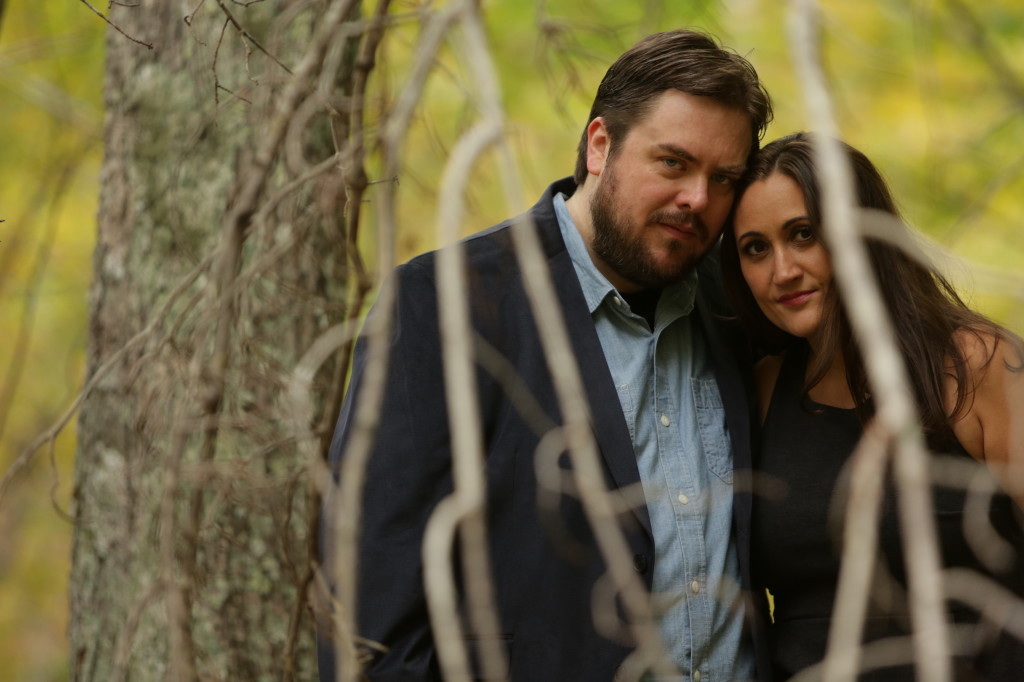
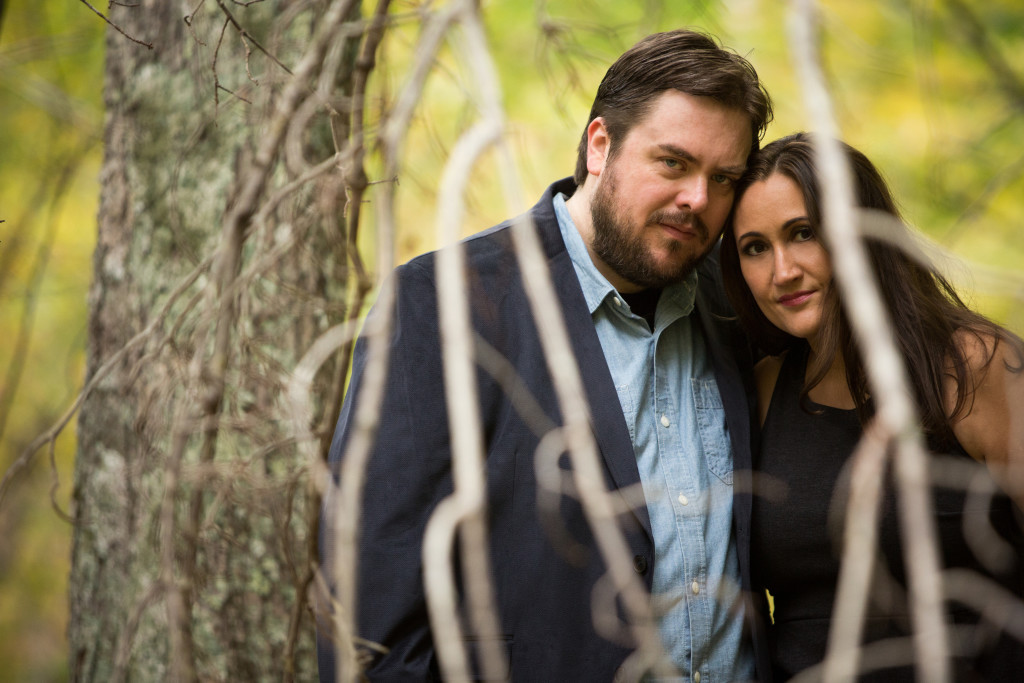
Retouched

diff --git a/wp-content/themes/scottyandallie/js/scott.js b/wp-content/themes/scottyandallie/js/scott.js
@@ -13,7 +13,7 @@
 				current += 1;
 			}
 
-			img.animate({opacity: 0.3}, 300, function () {
+			img.animate({opacity: 0.9}, 600, function () {
 				img.attr( 'src', photos[ current ] ).animate({opacity: 1}, 600, gallery);
 			});
 		}, 5000);

diff --git a/wp-content/themes/scottyandallie/masthead.php b/wp-content/themes/scottyandallie/masthead.php
@@ -11,6 +11,9 @@ echo json_encode( array(
 	'/wp-content/uploads/photos/4.jpg',
 	'/wp-content/uploads/photos/5.jpg',
 	'/wp-content/uploads/photos/6.jpg',
+	'/wp-content/uploads/photos/7.jpg',
+	'/wp-content/uploads/photos/8.jpg',
+	'/wp-content/uploads/photos/9.jpg',
 ) );
 ?></script>
 <?php endif; ?>
